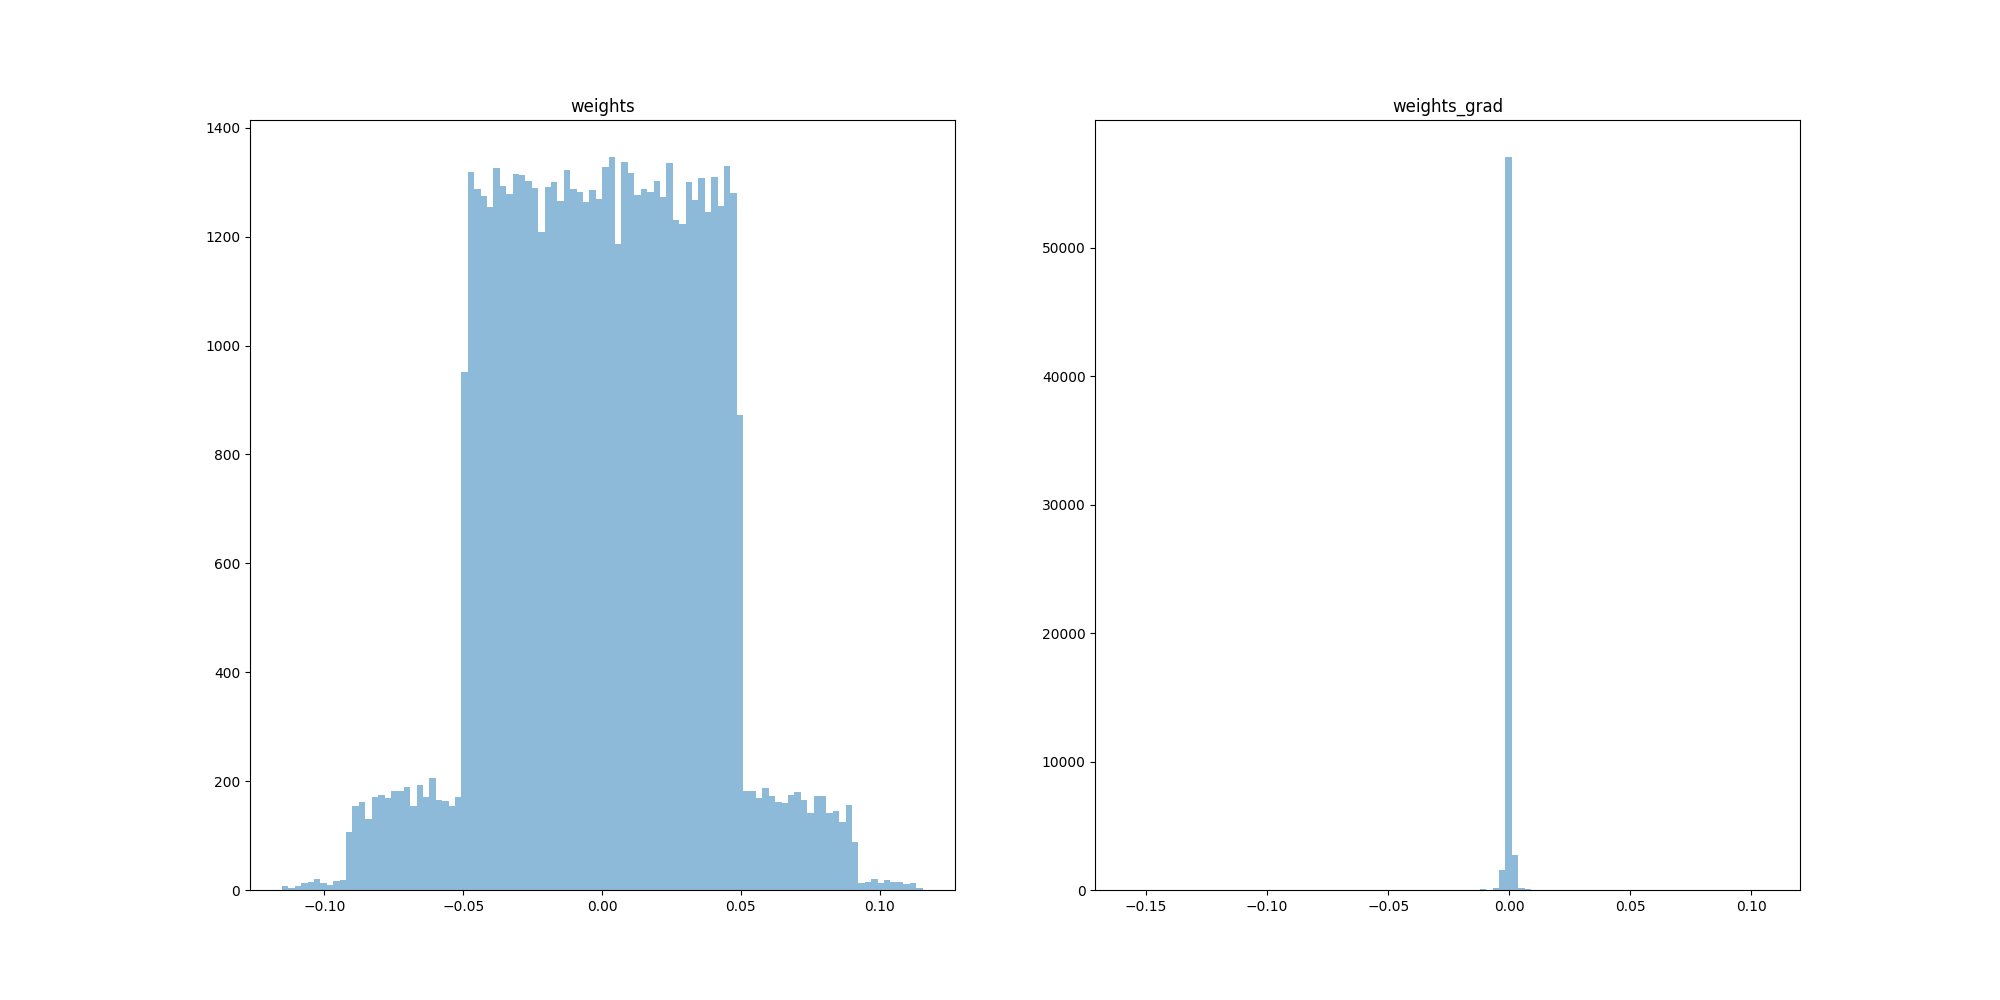
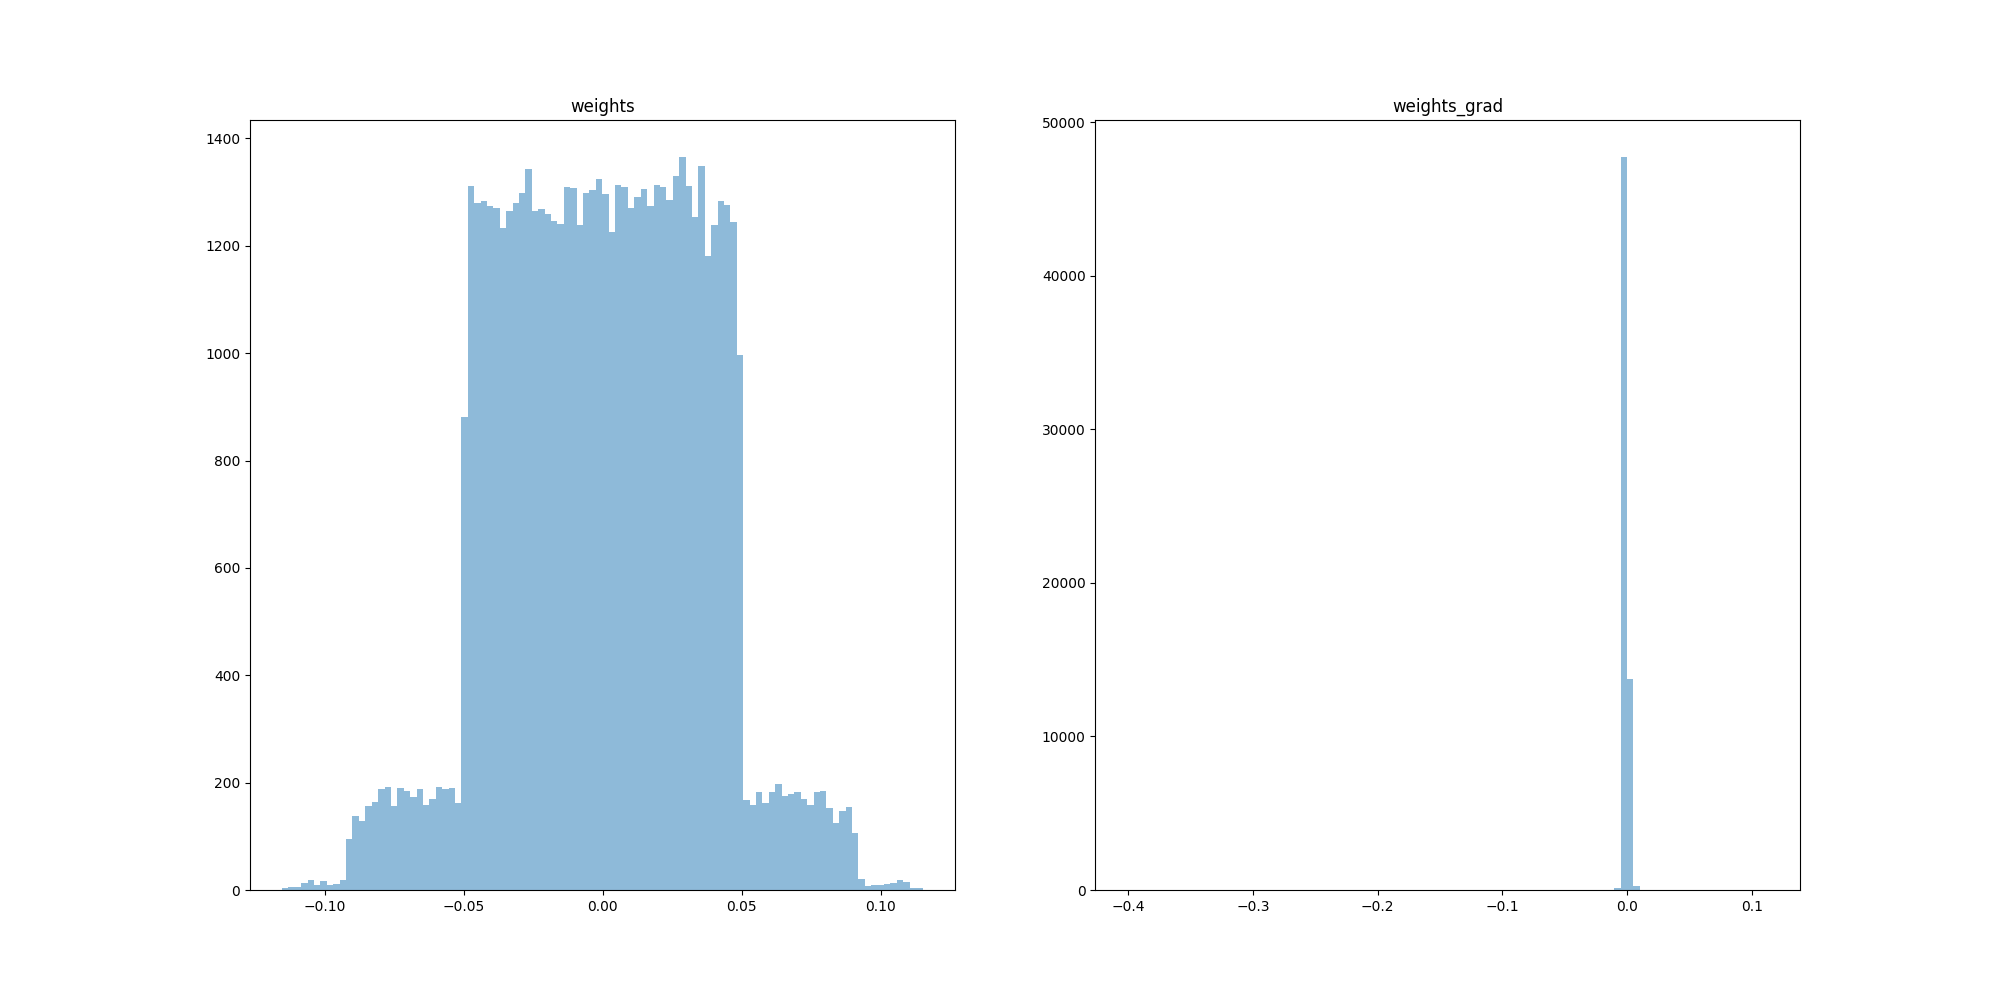
passed experiments

diff --git a/hooks/hooks.py b/hooks/hooks.py
@@ -3,7 +3,46 @@ import numpy as np
 import torch.nn as nn
 import logging
 
-class GradHook:
+# class GradHook:
+#     def __init__(self, num_faults, time, boarder):
+#         self.num_faults = num_faults
+#         self.counter = 0
+#         self.boarder = boarder
+#         self.time = time
+#     def hook(self, module, grad_input, grad_output):
+#         self.counter += 1
+#         if self.time > 0 and self.counter >= self.boarder:
+#             self.time -= 1
+#             grad_input_copy = [g.clone() for g in grad_input]
+#             for k in range(self.num_faults):
+#                 list_ind = torch.tensor([])
+#                 for i in range(len(grad_input[0].shape)):
+#                     list_ind = torch.cat((list_ind, torch.randint(0, grad_input[0].shape[i], (1,))))
+#                 grad_input_copy[0][tuple(np.int32(list_ind))] = 10
+#             return tuple(grad_input_copy)
+
+
+class GradHook_output_prehook:
+    def __init__(self, num_faults, time, boarder):
+        self.num_faults = num_faults
+        self.counter = 0
+        self.boarder = boarder
+        self.time = time
+    def hook(self, module, grad_output):
+        self.counter += 1
+        if self.time > 0 and self.counter >= self.boarder:
+            self.time -= 1
+            grad_output_copy = [g.clone() for g in grad_output]
+            for k in range(self.num_faults):
+                list_ind = torch.tensor([])
+                for i in range(len(grad_output[0].shape)):
+                    list_ind = torch.cat((list_ind, torch.randint(0, grad_output[0].shape[i], (1,))))
+                grad_output_copy[0][tuple(np.int32(list_ind))] = 1
+                # grad_output[0][tuple(np.int32(list_ind))] = 1
+            return tuple(grad_output_copy)
+
+
+class GradHook_input_hook:
     def __init__(self, num_faults, time, boarder):
         self.num_faults = num_faults
         self.counter = 0
@@ -36,8 +75,11 @@ class GradHookTensor:
                 list_ind = torch.tensor([])
                 for i in range(len(grad_input[0].shape)):
                     list_ind = torch.cat((list_ind, torch.randint(0, grad_output[0].shape[i], (1,))))
-                grad_output[0][tuple(np.int32(list_ind))] = 10
+                grad_output[0][tuple(np.int32(list_ind))] = 999999999999999
         
+
+# ------------------------------------------- weights hook ------------------------------------------------
+
 
 class ForwardHook:
     def __init__(self, num_faults, time, boarder):

diff --git a/models/conv_model.py b/models/conv_model.py
@@ -1,9 +1,7 @@
 import torch.nn as nn
 import torch.nn.functional as F
-from hooks.hooks import GradHook
-from hooks.hooks import ForwardHook
-from hooks.hooks import GradHookTensor
-from hooks.hooks import ForwardHookTensor
+# from hooks.hooks import GradHook
+from hooks.hooks import *
 
 class Net(nn.Module):
     def __init__(self):
@@ -12,10 +10,19 @@ class Net(nn.Module):
         self.pool = nn.MaxPool2d(2, 2)
         self.conv2 = nn.Conv2d(6, 16, 5)
         self.fc1 = nn.Linear(16 * 5 * 5, 120)
-        self.fc1.register_backward_hook(GradHook(1000, 1, 2000).hook)
+        # self.fc1.register_backward_hook(GradHook(1000, 1, 2000).hook)
         # self.fc1.register_backward_hook(GradHookTensor(1000, 1, 2000).hook)
         # self.fc1.register_forward_hook(ForwardHook(1000, 1, 2000).hook)
         # self.fc1.register_forward_hook(ForwardHookTensor(1000, 1, 2000).hook)
+
+
+
+        self.fc1.register_full_backward_pre_hook(GradHook_output_prehook(1000, 1, 2000).hook)
+        # self.fc1.register_full_backward_hook(GradHook_input_hook(1000, 1, 2000).hook)
+
+        # register_full_backward_hook register_backward_hook 
+        # self.fc1.register_backward_hook(GradHookTensor(1000, 100, 2000).hook)
+
         self.fc2 = nn.Linear(120, 84)
         self.fc3 = nn.Linear(84, 10)
 
@@ -27,3 +34,7 @@ class Net(nn.Module):
         x = F.relu(self.fc2(x))
         x = self.fc3(x)
         return x
+    
+
+# GradHook_output_prehook -> register_full_backward_pre_hook
+# GradHook_input_hook -> register_full_backward_hook
